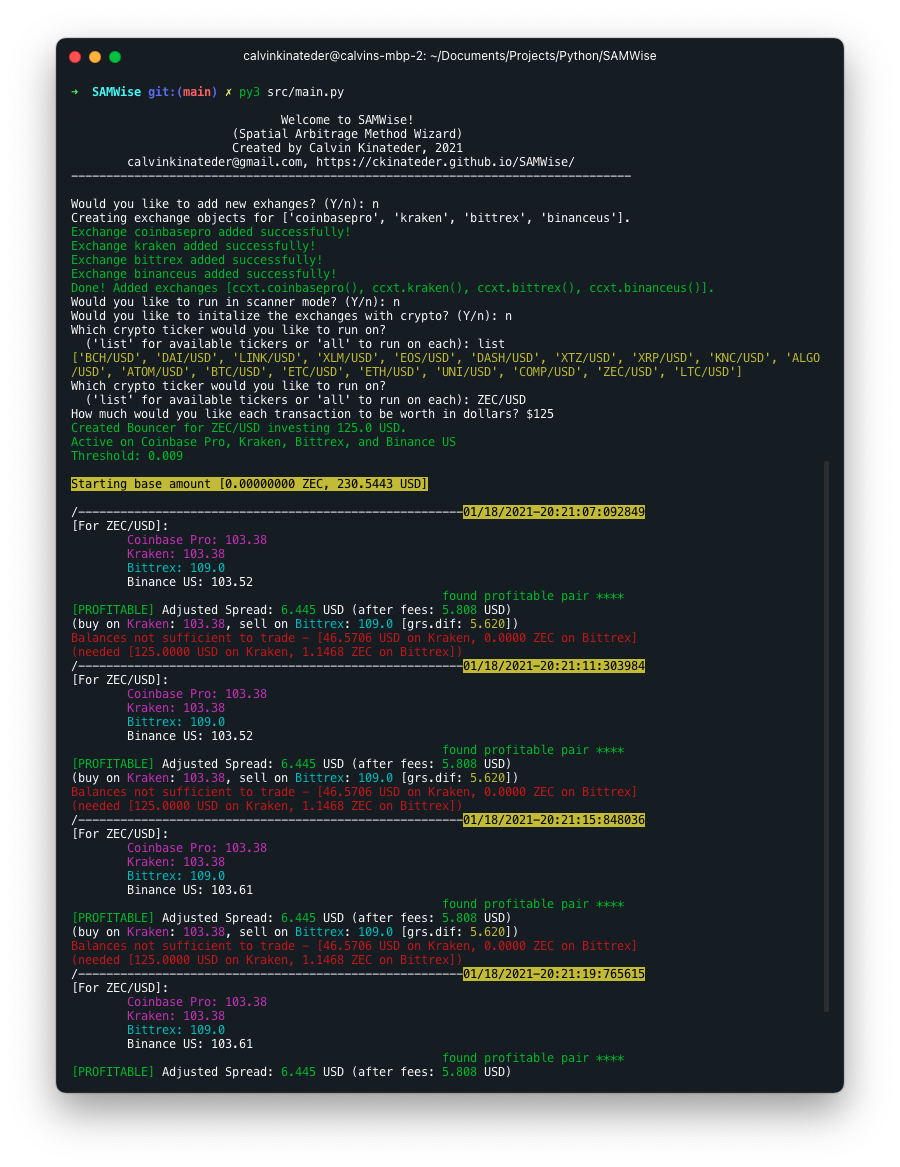
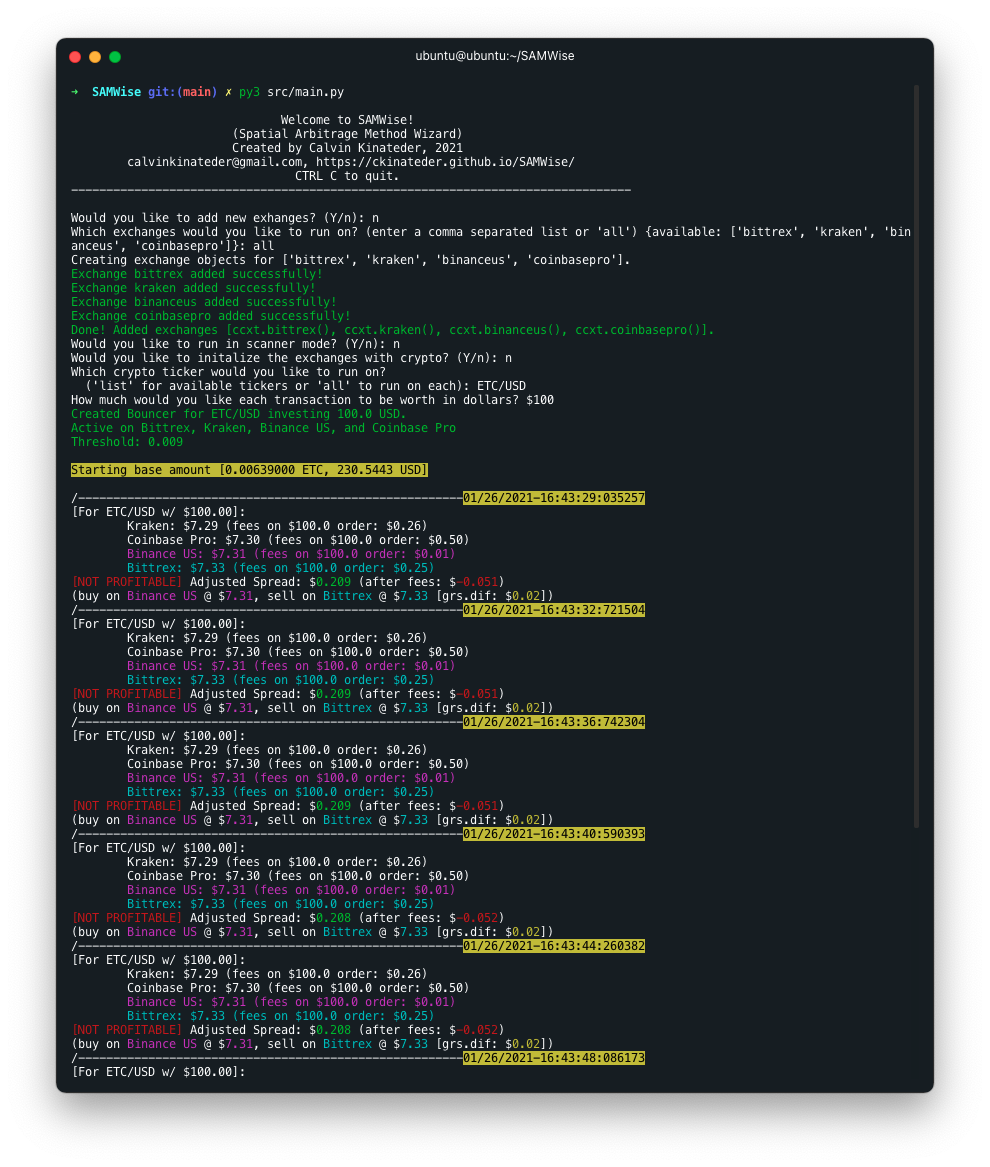
update images and balance logic

diff --git a/src/bouncer.py b/src/bouncer.py
@@ -199,17 +199,17 @@ class Bouncer:
             if exchange == buy:
                 fee = exchange.calculateFee(
                     self.symbol, 'limit', 'buy', self.quote_order_size/ask, ask, takerOrMaker='taker', params={})['cost']
-                logstr = colorLow('\t{}: ${:.2f} (fees on ${} order: ${:.2f})'.format(
+                logstr = colorLow('\t{}: ${:.2f} (fees on ${:.2f} order: ${:.2f})'.format(
                     exchange.name, ask, self.quote_order_size, fee))
             elif exchange == sell:
                 fee = exchange.calculateFee(
                     self.symbol, 'limit', 'sell', self.quote_order_size/ask, ask, takerOrMaker='taker', params={})['cost']
-                logstr = colorHigh('\t{}: ${:.2f} (fees on ${} order: ${:.2f})'.format(
+                logstr = colorHigh('\t{}: ${:.2f} (fees on ${:.2f} order: ${:.2f})'.format(
                     exchange.name, ask, self.quote_order_size, fee))
             else:
                 fee = exchange.calculateFee(
                     self.symbol, 'limit', 'buy', self.quote_order_size/ask, ask, takerOrMaker='taker', params={})['cost']
-                logstr = '\t{}: ${:.2f} (fees on ${} order: ${:.2f})'.format(
+                logstr = '\t{}: ${:.2f} (fees on ${:.2f} order: ${:.2f})'.format(
                     exchange.name, ask, self.quote_order_size, fee)
             exchanges_str += logstr+'\n'
 
@@ -452,15 +452,15 @@ class Bouncer:
                             self.handleTransaction(
                                 buy_ex, sell_ex, low, high)
                             action_taken = True
+                        elif quote_balance < self.quote_order_size and base_balance < self.quote_order_size/high:
+                            print(colorBad('Insufficient balance (missing ${:.2f} on {}, {:.4f} {} on {})'.format(
+                                self.quote_order_size-quote_balance, buy_ex.name, self.quote_order_size/high-base_balance, self.base_coin, sell_ex.name)))
                         elif quote_balance < self.quote_order_size:
                             print(colorBad('Insufficient balance (missing ${:.2f} on {})'.format(
                                 self.quote_order_size-quote_balance, buy_ex.name)))
                         elif base_balance < self.quote_order_size/high:
                             print(colorBad('Insufficient balance (missing {:.4f} {} on {})'.format(
                                 self.quote_order_size/high-base_balance, self.base_coin, sell_ex.name)))
-                        else:
-                            print(colorBad('Insufficient balance (missing ${:.2f} on {}, {:.4f} {} on {})'.format(
-                                self.quote_order_size-quote_balance, buy_ex.name, self.quote_order_size/high-base_balance, self.base_coin, sell_ex.name)))
 
         except Exception as e:
             print(colorBad('Error in call ... trying again in 10 ({})').format(e))
